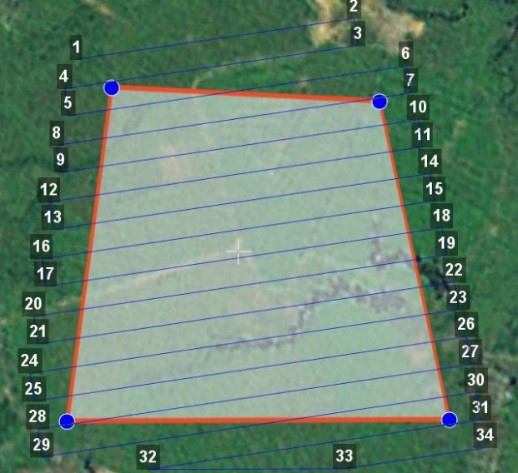
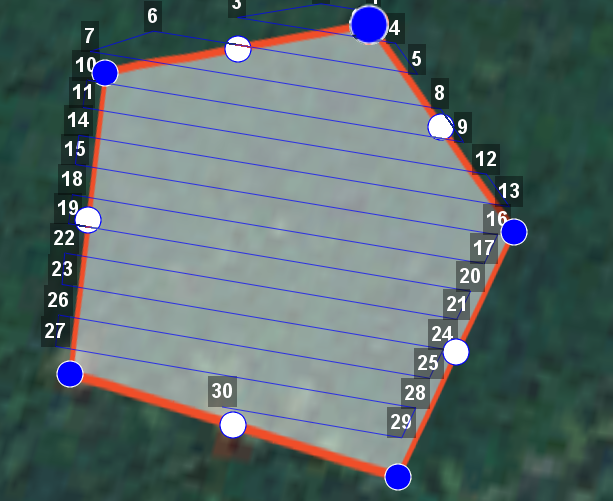
planner new edges

diff --git a/planner.rst b/planner.rst
@@ -119,13 +119,37 @@
 
 Добавление и удаление вершин полигона
 __________________________________________
-В готовый полигон можно добавлять вершины. Для этого нажмите правой кнопкой мыши на любую вершину. В выпадающем списке выберите **Добавить вершину**. Новая вершина появится на середине стороны. После создания ее можно перетащить в нужное место. Аналогично происходит удаление вершин.
+В готовый полигон можно добавлять вершины. 
+
+С зажатой левой кнопкой мыши переместите среднюю точку стороны полигона. 
 
 .. figure:: _static/_images/planner10.png
    :align: center
    :width: 500
 
    Добавление вершины
+
+Вершина будет создана автоматически. 
+В плавающем окне рядом с вершиной отобразятся ее координаты.
+
+.. figure:: _static/_images/planner34.png
+   :align: center
+   :width: 500
+
+   Результат добавления вершины
+
+
+Для удаления вершины:
+
+1) нажмите на вершину правой кнопкой мыши;
+2) в контекстном меню выберите **Удалить вершину**.
+
+.. figure:: _static/_images/planner33.png
+   :align: center
+   :width: 500
+
+   Удаление вершины
+
 
 Изменение направления линий облета
 _______________________________________
@@ -247,16 +271,6 @@ _______________________________________________
 же высоте.
 2) Если у полётных элементов разные высоты, то перелёт будет на наибольшей
 из двух высот.
-
-При выбранном варианте "нефиксированный" можно настроить вариант полёта между соседними точками через контекстное меню точки перелета. По умолчанию БВС набирает/сбрасывает высоту по спирали, если разница высот соседних точек превышает 30 м.
-В перелете можно выбрать вариант плавного набора, для этого необходимо щелкнуть правой кнопкой мыши по точке перелета и выбрать вариант **«Перелет только по прямой»**.
-
-.. figure:: _static/_images/planner21.png
-   :align: center
-   :width: 800
-
-   Выбор варианта перелета по прямой
-
 
 .. attention:: Если условия не позволяют достичь высоты второй точки по прямой (например, небольшое расстояние между точками, но большая разница высот), самолет полетит с максимально допустимым тангажом по прямой до достижения заданной точки по координатам, после чего наберет/сбросит высоту по спирали.
 
